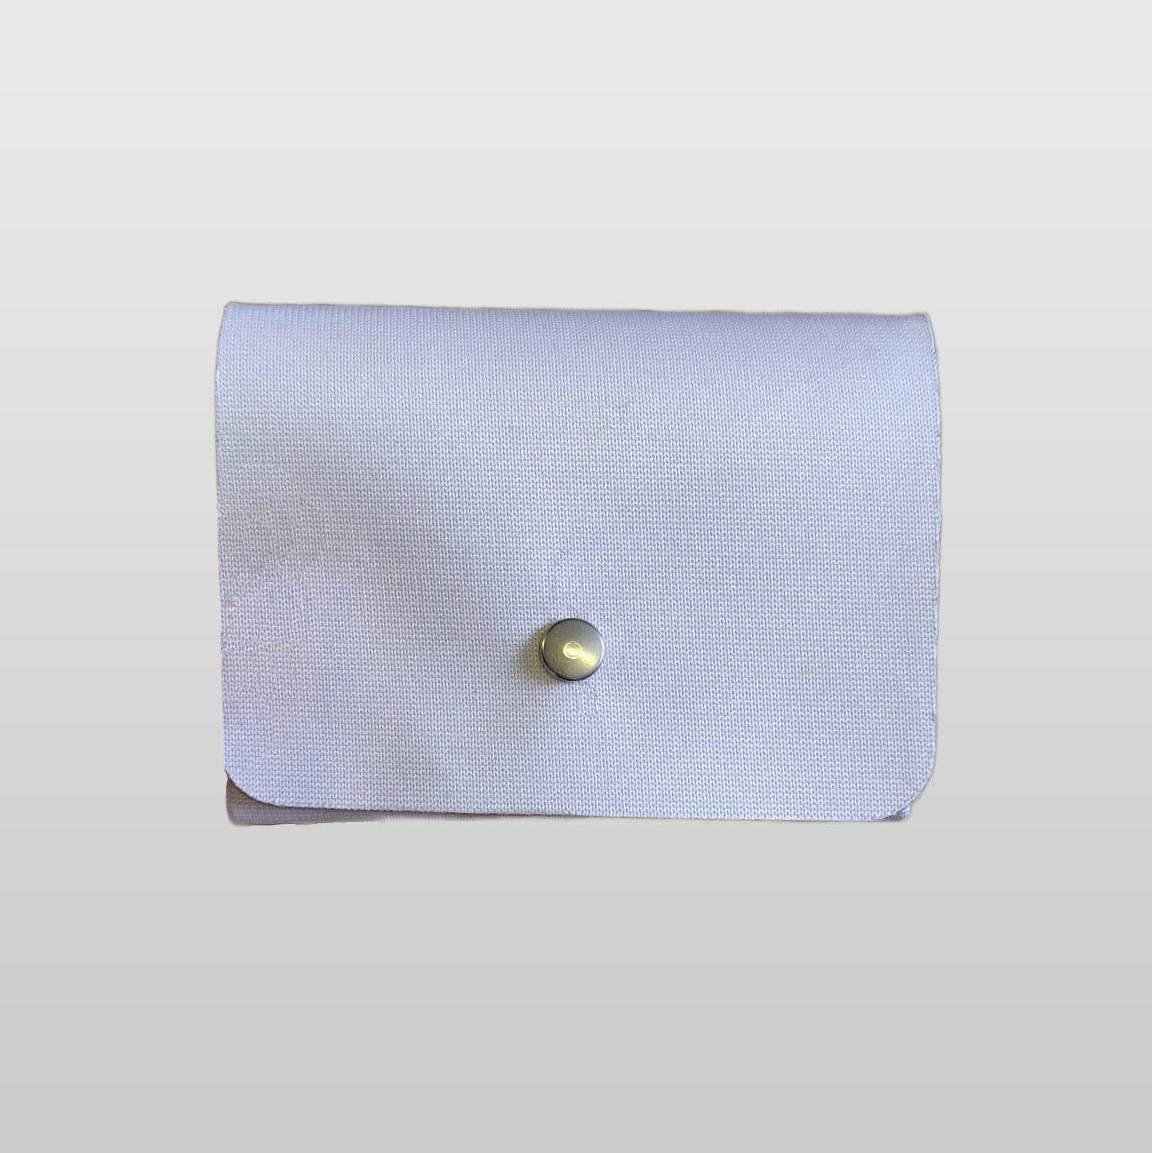
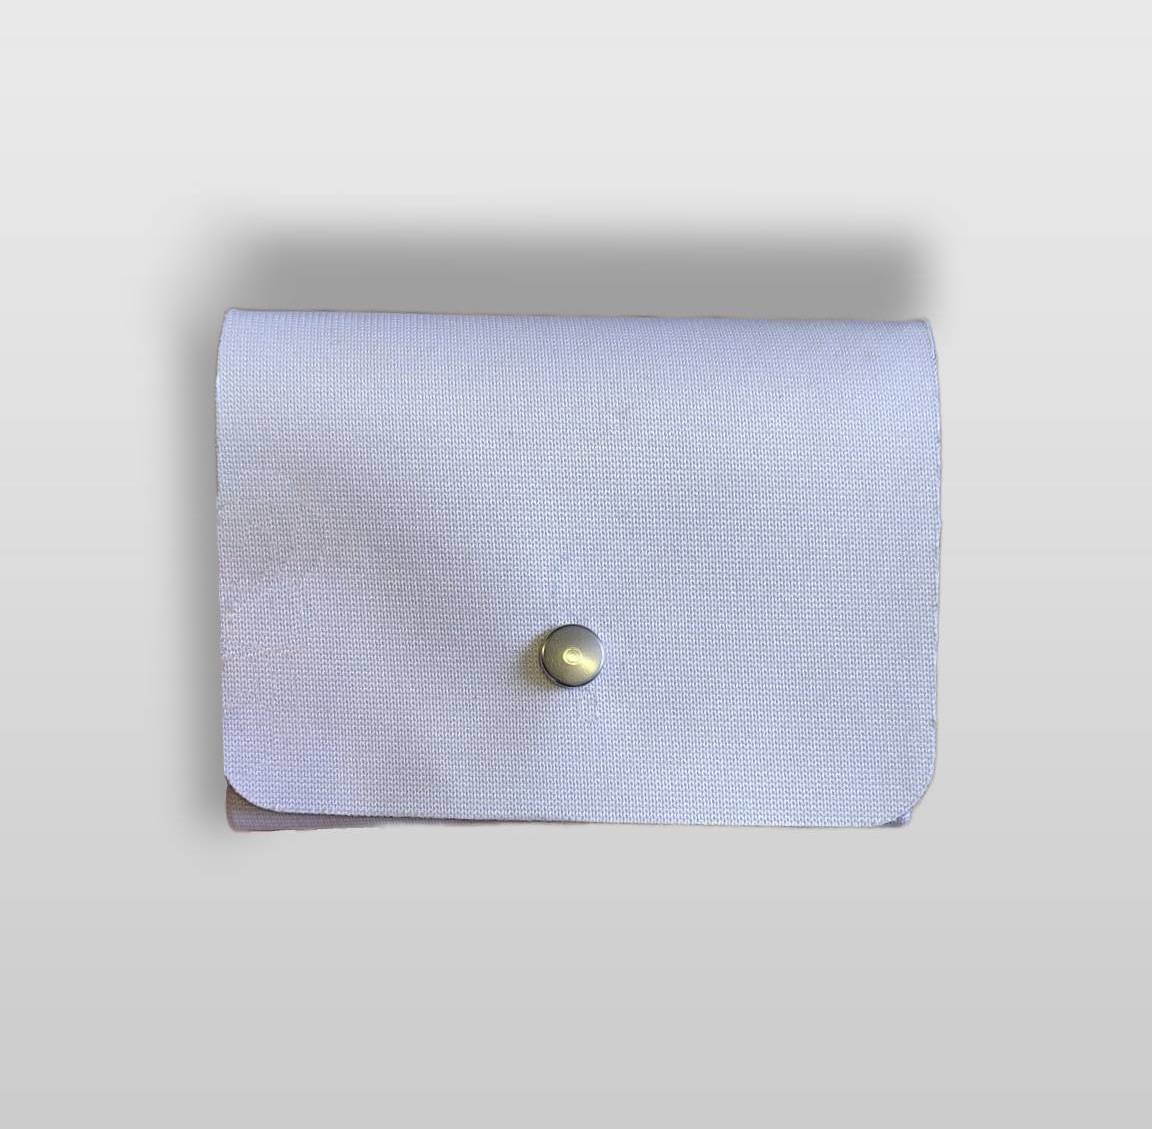
update projects
- add chere mamie
- stylize galeries

Changed region(s): [[0.125, 0.186, 0.8125, 0.744]]

diff --git a/html_secondaires/projets/details/detail.html b/html_secondaires/projets/details/detail.html
@@ -57,32 +57,67 @@
         .detail-content a:hover {
             text-decoration: underline;
         }
+        /* Galerie grid */
         .detail-galerie {
-            display: flex;
-            flex-wrap: wrap;
-            gap: 10px;
+            display: grid;
+            grid-template-columns: repeat(3, 1fr);
+            grid-auto-flow: dense;
+            gap: 8px;
             margin: 20px 0;
-            align-items: flex-start;
         }
         .detail-galerie img,
         .detail-galerie video {
-            flex: 1 1 calc(33% - 10px);
-            /*max-width: 25vw;*/
+            width: 100%;
+            height: 100%;
+            aspect-ratio: 1 / 1;
+            object-fit: cover;
             display: block;
-            border-radius: 6px;
+            border-radius: 8px;
+            cursor: pointer;
+            transition: opacity 0.2s ease;
         }
-        .detail-galerie video {
-            max-width: 100%;
-            height: auto;
-        }
+        .detail-galerie img:hover,
+        .detail-galerie video:hover { opacity: 0.85; }
         .detail-galerie .galerie-grand {
-            min-width: 50vw;
+            grid-column: span 2;
+            aspect-ratio: 2 / 1;
         }
         @media (max-width: 600px) {
-            .detail-galerie img,
-            .detail-galerie video { flex: 1 1 calc(50% - 10px); }
-            .detail-galerie .galerie-grand { min-width: 100%; }
+            .detail-galerie { grid-template-columns: repeat(2, 1fr); }
+            .detail-galerie .galerie-grand { grid-column: span 2; aspect-ratio: 2 / 1; }
         }
+
+        /* Lightbox */
+        #lightbox {
+            display: none;
+            position: fixed;
+            inset: 0;
+            background: rgba(0, 0, 0, 0.88);
+            z-index: 2000;
+            justify-content: center;
+            align-items: center;
+        }
+        #lightbox.open { display: flex; }
+        #lightbox-media {
+            max-width: 90vw;
+            max-height: 88vh;
+            border-radius: 8px;
+            object-fit: contain;
+        }
+        #lightbox-close {
+            position: fixed;
+            top: 20px;
+            right: 28px;
+            font-size: 36px;
+            color: white;
+            cursor: pointer;
+            background: none;
+            border: none;
+            line-height: 1;
+            opacity: 0.8;
+            transition: opacity 0.15s;
+        }
+        #lightbox-close:hover { opacity: 1; }
         .back-link {
             display: inline-block;
             margin-bottom: 20px;
@@ -112,6 +147,12 @@
             </div>
         </div>
     </nav>
+
+    <!-- Lightbox -->
+    <div id="lightbox">
+        <button id="lightbox-close" onclick="closeLightbox()">×</button>
+        <div id="lightbox-inner"></div>
+    </div>
 
     <div class="detail-container">
         <a href="../projets.html" class="back-link">← Retour aux projets</a>
@@ -221,7 +262,10 @@
                         }
                     });
 
-                    document.getElementById('content').innerHTML = document.getElementById('content').innerHTML;
+                    // Attacher les listeners lightbox sur chaque média de la galerie
+                    document.querySelectorAll('.detail-galerie img, .detail-galerie video').forEach(el => {
+                        el.addEventListener('click', () => openLightbox(el));
+                    });
                 })
                 .catch(error => {
                     document.getElementById('content').innerHTML = `
@@ -235,6 +279,44 @@
                 <p>Veuillez retourner aux projets.</p>
             `;
         }
+
+        function openLightbox(el) {
+            const lb = document.getElementById('lightbox');
+            const inner = document.getElementById('lightbox-inner');
+            inner.innerHTML = '';
+            if (el.tagName === 'VIDEO') {
+                const v = document.createElement('video');
+                v.src = el.src || el.querySelector('source')?.src;
+                v.controls = true;
+                v.autoplay = true;
+                v.id = 'lightbox-media';
+                inner.appendChild(v);
+            } else {
+                const img = document.createElement('img');
+                img.src = el.src;
+                img.id = 'lightbox-media';
+                inner.appendChild(img);
+            }
+            lb.classList.add('open');
+            document.body.style.overflow = 'hidden';
+        }
+
+        function closeLightbox() {
+            const lb = document.getElementById('lightbox');
+            lb.classList.remove('open');
+            document.getElementById('lightbox-inner').innerHTML = '';
+            document.body.style.overflow = '';
+        }
+
+        document.getElementById('lightbox').addEventListener('click', e => {
+            if (e.target === document.getElementById('lightbox') || e.target === document.getElementById('lightbox-inner')) {
+                closeLightbox();
+            }
+        });
+
+        document.addEventListener('keydown', e => {
+            if (e.key === 'Escape') closeLightbox();
+        });
 
         function toggleMenu() {
             document.querySelector('.menu').classList.toggle('active');

diff --git a/html_secondaires/projets/details/chere-mamie.md b/html_secondaires/projets/details/chere-mamie.md
@@ -1,0 +1,48 @@
+titre : "Chère Mamie..."
+date : "Mars 2026"
+position : "center center"
+
+Jeu créé pendant la Scientific Game Jam Online 2026  
+Lien vers tous les jeux : [https://itch.io/jam/scientific-game-jam-2026](https://itch.io/jam/scientific-game-jam-2026)
+
+## Description
+### Résumé
+Incarnez l'aventure mentale d'une enfant qui souhaite écrire une lettre à sa grand-mère. Trouvez les mots adéquats et écrivez la meilleure lettre possible (ou la moins pire) !
+
+### Aspect scientifique
+Se mettre dans la peau d'un enfant aux prises avec le langage écrit et ses dynamiques intrinsèques : chercher des mots, construire des phrases, élaborer un texte.
+
+### Équipe
+Arnaud MOYSAN et Claire DOQUET *- scientifiques*  
+Célia JAUNET *- game Designer*  
+Anne-Sophie KOCH et Alice MASSART *- développeuses*  
+Mosa BRETON et Lucie NUSSBAUM *- artistes 2D & UI*  
+Aurélie MOIROUD *- sound designer & compositrice*  
+
+## Mes outils
+- Godot
+- Visual Studio Code
+- Krita
+
+## Téléchargement
+<div style="text-align:center;">
+    <iframe
+    frameborder="0"
+    src="https://itch.io/embed/4375491"
+    width="100%"
+    height="100%"
+    style="border-radius:10px;">
+        <a href="https://alice-massart.itch.io/imposipdf">Chère Mamie... by Runthia, Alice-Massart, Ankos, Lucie Nussbaum, Mosa Breton, Aurelie, Amoysan</a>
+    </iframe>
+</div>
+
+## Galerie
+![Écran titre du jeu](../../../src/img/travail/2026_chere-mamie/titlescreen.png)
+![Aperçu des premiers dialogues](../../../src/img/travail/2026_chere-mamie/first-dilaog_1.png)
+![Aperçu des premiers dialogues](../../../src/img/travail/2026_chere-mamie/first-dialog_2.png)
+![Aperçu du jeu joué](../../../src/img/travail/2026_chere-mamie/gameplay_1.png)
+![Aperçu du jeu joué](../../../src/img/travail/2026_chere-mamie/gameplay_2.png)
+![Aperçu du jeu joué](../../../src/img/travail/2026_chere-mamie/gameplay_3.png)
+![Aperçu du jeu joué](../../../src/img/travail/2026_chere-mamie/gameplay_4.png)
+![Image de fin du jeu](../../../src/img/travail/2026_chere-mamie/final-postcard.png)
+![Credits](../../../src/img/travail/2026_chere-mamie/credits.png)
